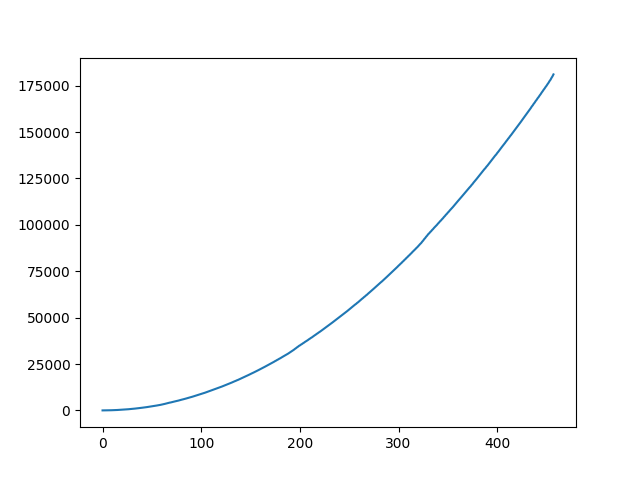
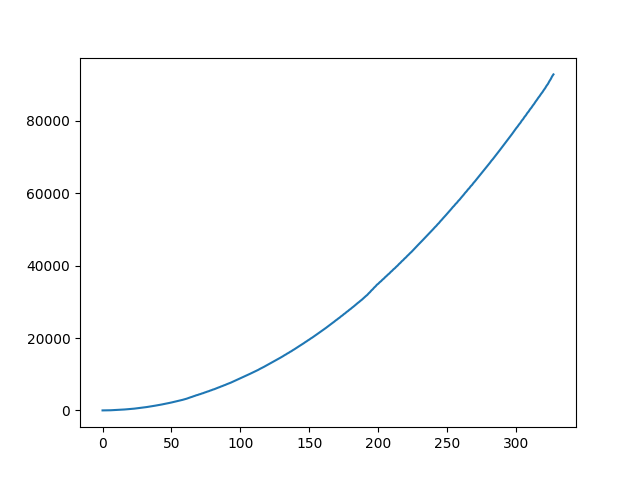
21 - use numpy instead of wolfram for automatic calculations

diff --git a/21/main1.py b/21/main1.py
@@ -1,7 +1,7 @@
 import sys
 sys.path.append('../')
 from aoctools.aoc_functions import *
-import numpy as np
+import numpy.polynomial.polynomial as poly
 import itertools as it
 from collections import defaultdict, Counter, deque
 import matplotlib.pyplot as plt
@@ -13,16 +13,19 @@ def main():
 
     ans2 = 0
 
-    # grid = ftg(file)
-    # for i in rlen(grid):
-    #     for j in rlen(grid[i]):
-    #         if grid[i][j] == "S":
-    #             start = (i,j)
-    #             break
+    grid = ftg(file)
+    for i in rlen(grid):
+        for j in rlen(grid[i]):
+            if grid[i][j] == "S":
+                start = (i,j)
+                break
     
-    # nums = bfs(grid,start)
+    nums = bfs(grid,start)
+
     # plt.plot(nums)
     # plt.savefig("nums.png")
+
+    # === Wolfram stuff ===
     # s = "{"
     # for i in rlen(nums):
     #     if i % 131 in [65]:
@@ -30,9 +33,19 @@ def main():
     # s = s[:len(s)-1] + "}"
     # print(s)
 
-    f = lambda x: int((14812 * x**2)/17161 + (29615*x)/17161 + 2524/17161)
-    ans2 = f(26501365)
-    
+    # f = lambda x: int((14812 * x**2)/17161 + (29615*x)/17161 + 2524/17161)
+    # ans2 = f(26501365)
+
+    # === numpy stuff ===
+    x = []
+    y = []
+    for i in rlen(nums):
+        if i % 131 == 65:
+            x.append(i)
+            y.append(nums[i])
+    p = poly.polyfit(x,y,2)
+    ans2 = int(poly.polyval(26501365,p))-1
+
     print("2:", ans2)
 
 # ==================================================
@@ -56,7 +69,7 @@ def bfs(grid, start):
     to_explore = deque()
     to_explore.append(start)
     nums = [0]
-    for i in range(1,131*3+65):
+    for i in range(1,131*2+66):
         to_explore_new = deque()
         while to_explore:
             current = to_explore.popleft()

diff --git a/21/README.md b/21/README.md
@@ -6,4 +6,6 @@
 
 Part 1 was straightforward. It took me a while to find my bug where I reset the queue of new coordinates when iterating over the current queue, but I got the correct answer shortly afterwards.
 
-Part 2 was more interesting. Upon looking at the number, I instantly knew I would not be bashing that one out (especially since part 1 had taken around half a second), so I decided to see if I could find patterns within the way the steps worked. Within the actual input (not the testing data), the row and column the starting coordinate is in is completely blank, as is the outer ring of the starting grid. The grid is also a square, which simplified things. Additionally, `26501365 % 131` (the length of the grid) is 65, which is exactly the number of steps it takes to reach the edge of the first grid. I ate breakfast after this since it was ready, then decided to use polynomial interpolation for values `0`, `131`, and `131*2` courtesy of WolframAlpha. When that didn't work, I did the same thing for `65` and got the correct answer. (Had that not worked, I would've tried off-by-one answers.)
+Part 2 was more interesting. Upon looking at the number, I instantly knew I would not be bashing that one out (especially since part 1 had taken around half a second), so I decided to see if I could find patterns within the way the steps worked. Within the actual input (not the testing data), the row and column the starting coordinate is in is completely blank, as is the outer ring of the starting grid. The grid is also a square, which simplified things. Additionally, `26501365 % 131` (the length of the grid) is 65, which is exactly the number of steps it takes to reach the edge of the first grid. I ate breakfast after this since it was ready, then decided to plot the relationship  between the number of steps and the number of coordinates that could be reached (I did not expect to ever use MatPlotLib during AoC, but here we are), and noticed that it looked similar to a quadratic. I decided to use quadratic polynomial interpolation for values `0`, `131`, and `131*2`, courtesy of WolframAlpha. When that didn't work, I did the same thing for `65`, `65+131`, and `65+131*2` and got the correct answer.
+
+Had that not worked, I would've tried off-by-one and off-by-two answers to account for rounding. Interestingly enough, when I was refactoring the code to use numpy's aproximation (to automatically do the calculations), my new answer was off by 1.
